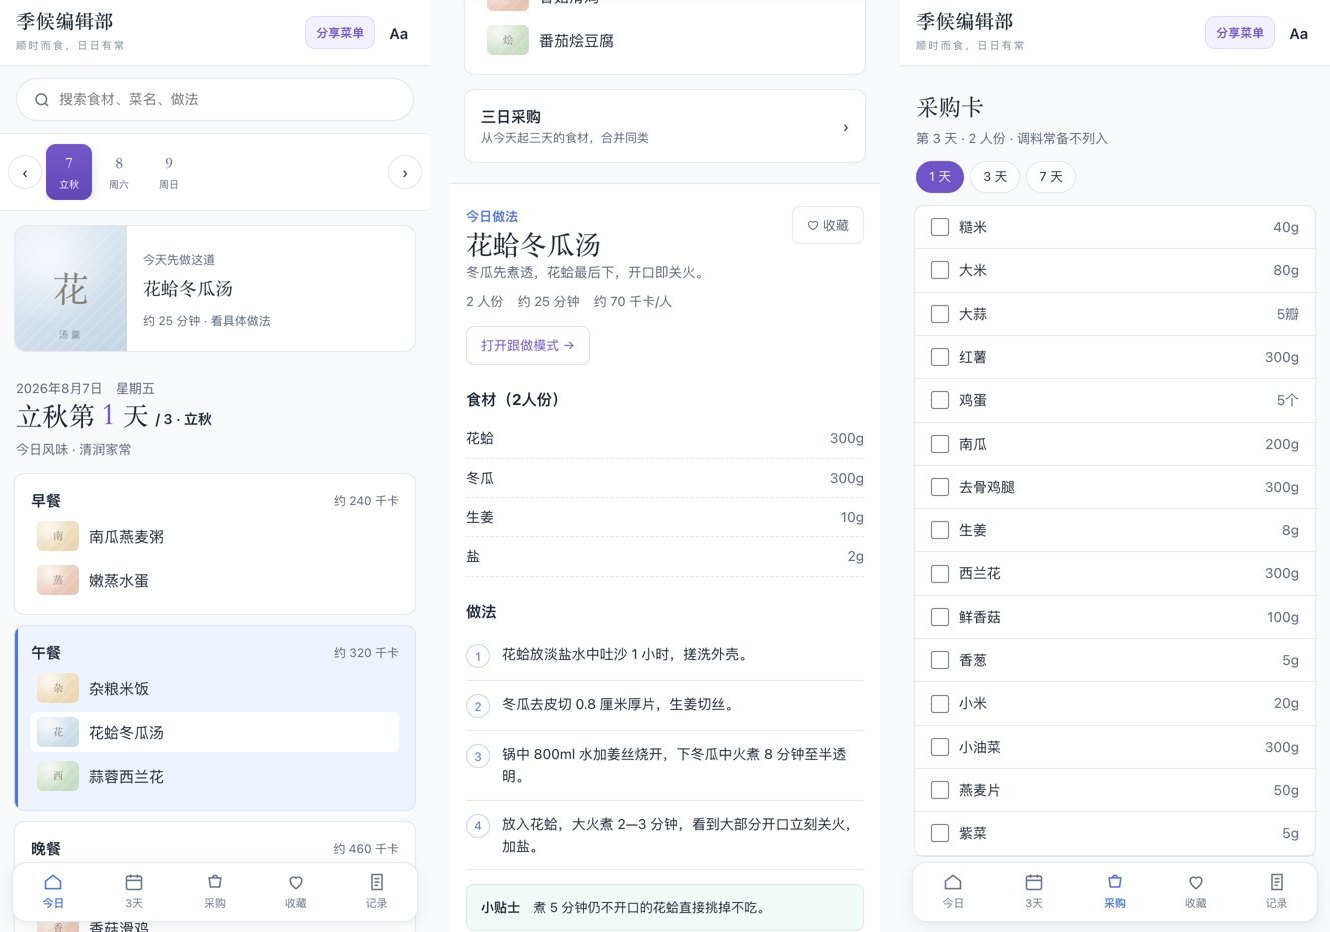
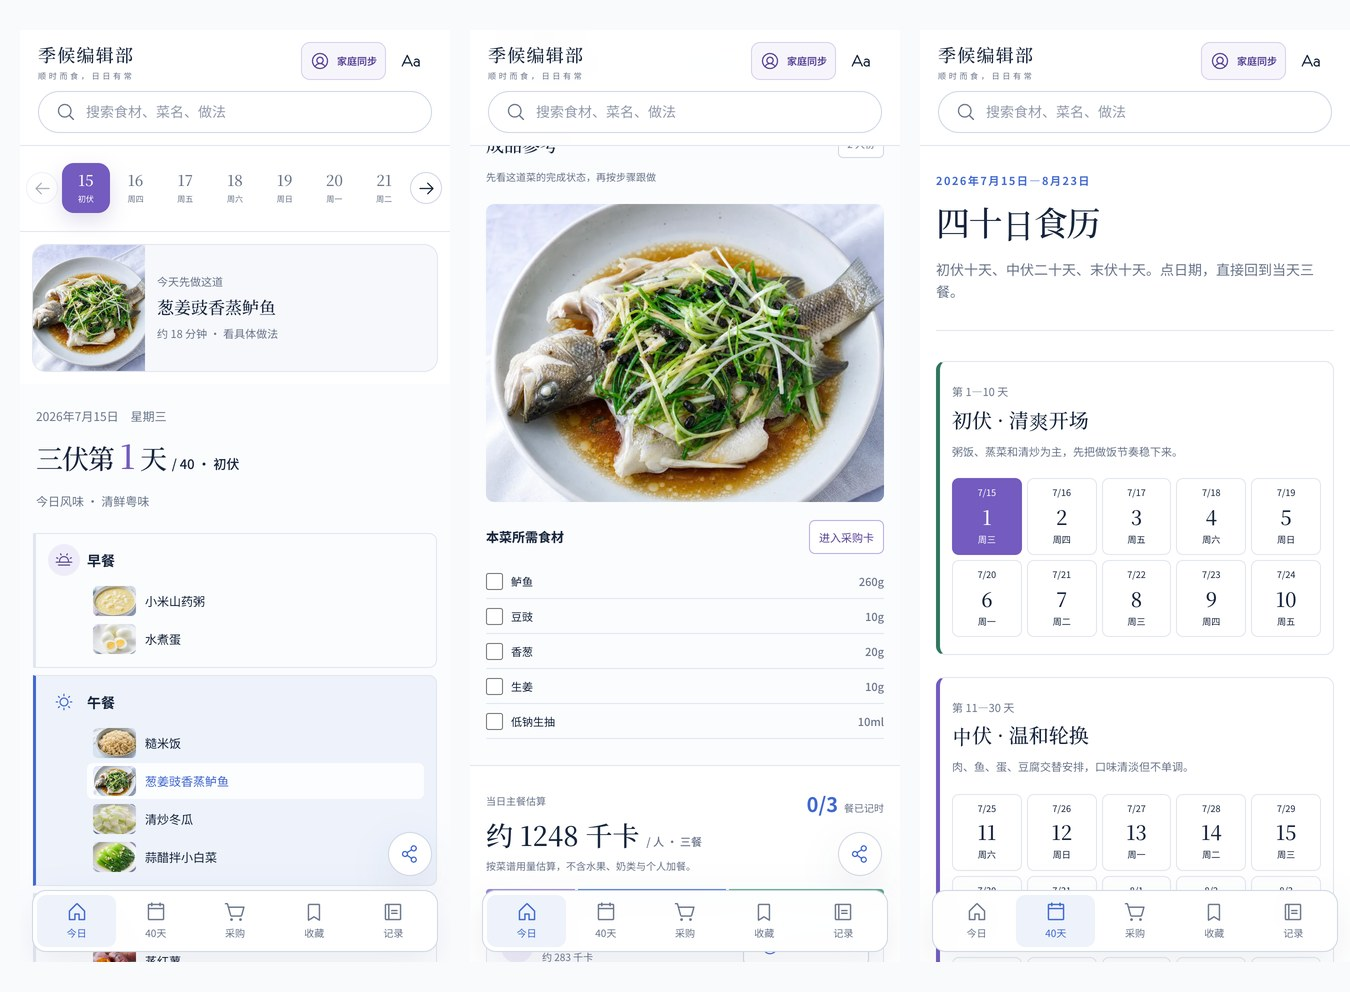
docs: real screenshots from the family site

diff --git a/README.md b/README.md
@@ -6,9 +6,9 @@
 
 一个开源 Agent Skill：告诉 AI「给家里做个三伏 40 天的食谱」，它会生成一份经过校验的菜单数据，再一键出一个手机上就能用的食谱网页。
 
-<img src="docs/preview.jpg" width="100%" alt="今日三餐 · 做法详情 · 采购卡">
+<img src="docs/preview.jpg" width="100%" alt="今日三餐 · 成品参考 · 四十日食历">
 
-<sub>截图来自仓库自带的虚构 3 天示例（立秋），未配成品图时显示内置的色块占位。</sub>
+<sub>作者给家里做的「三伏四十日食历」实拍截图，每道菜配了 AI 生成的成品图。</sub>
 
 </div>
 
@@ -24,6 +24,20 @@
 - **收藏、饮食记录、搜索**：吃完点一下自动记时间
 - **舒展字号**：一键放大，长辈看着不费劲
 - **离线单文件**：一个 `index.html`，不依赖服务器；收藏和记录只存在各自手机上
+
+## 📱 实际效果
+
+<table>
+<tr>
+<td align="center"><img src="docs/real-today.jpg" width="200"><br><sub>今日三餐</sub></td>
+<td align="center"><img src="docs/real-recipe.jpg" width="200"><br><sub>做法详情</sub></td>
+<td align="center"><img src="docs/real-photo.jpg" width="200"><br><sub>成品参考</sub></td>
+<td align="center"><img src="docs/real-40days.jpg" width="200"><br><sub>四十日食历</sub></td>
+<td align="center"><img src="docs/real-shop.jpg" width="200"><br><sub>采购与冰箱</sub></td>
+</tr>
+</table>
+
+<sub>说明：截图里的「家庭同步」和「冰箱库存」需要服务器，本 skill 生成的离线版不含这两项；成品图需要另配图像模型生成（可以配合 recipe-video-cards）。</sub>
 
 ## 🧠 AI 会怎么做
 
